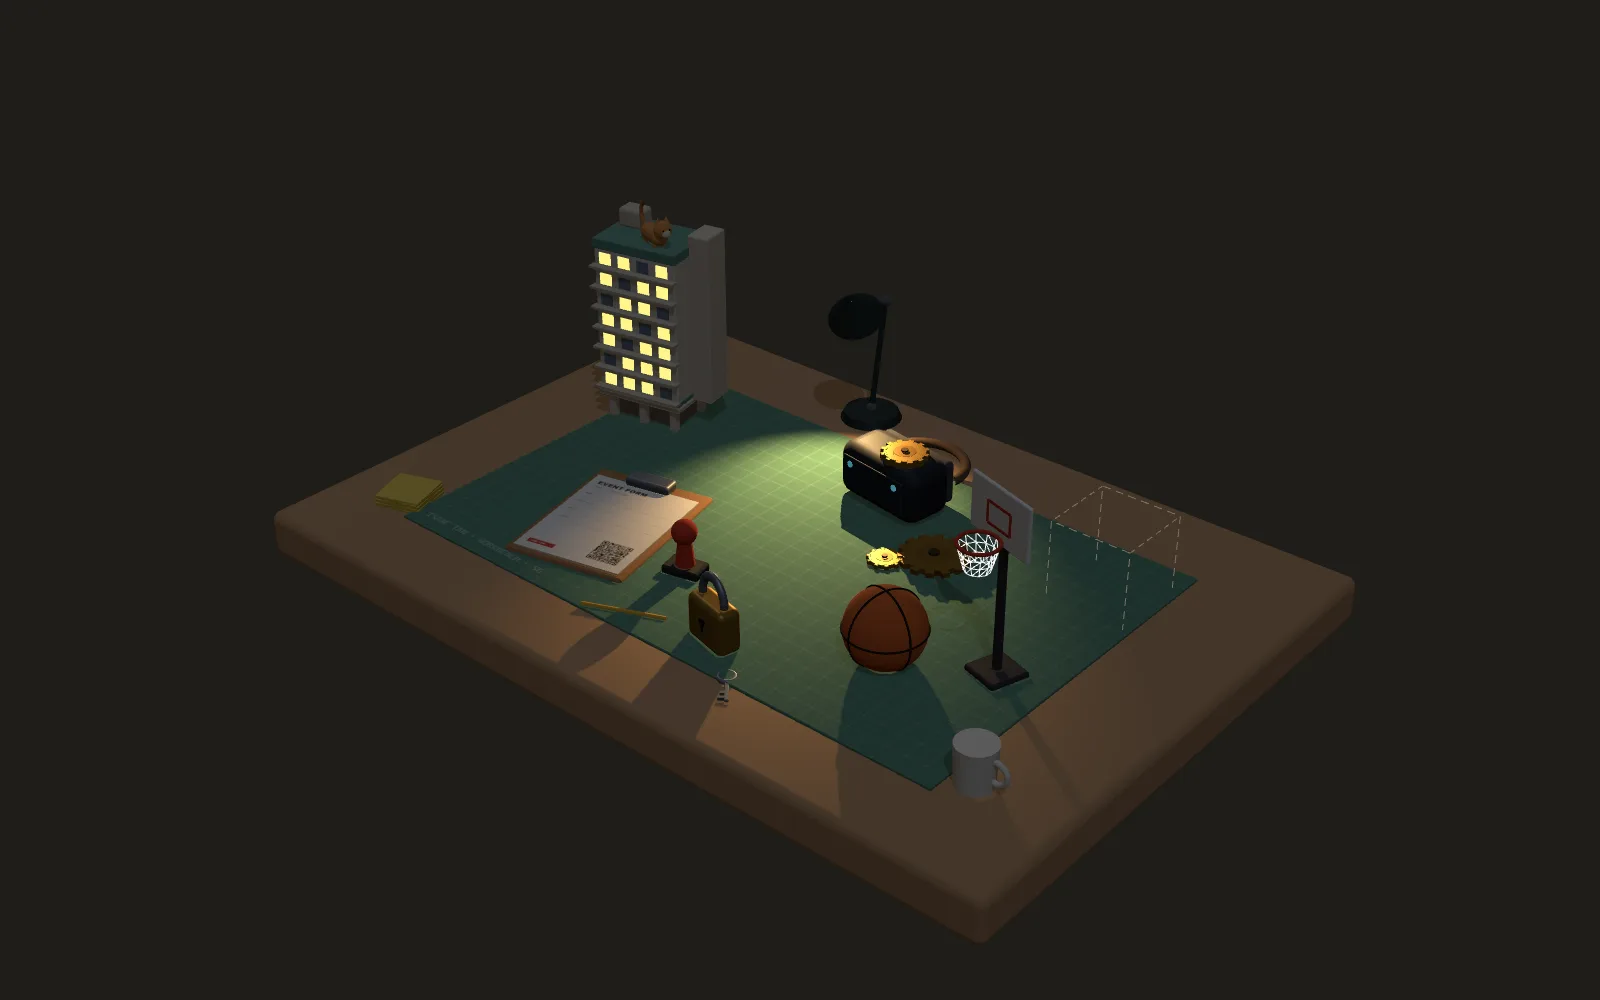
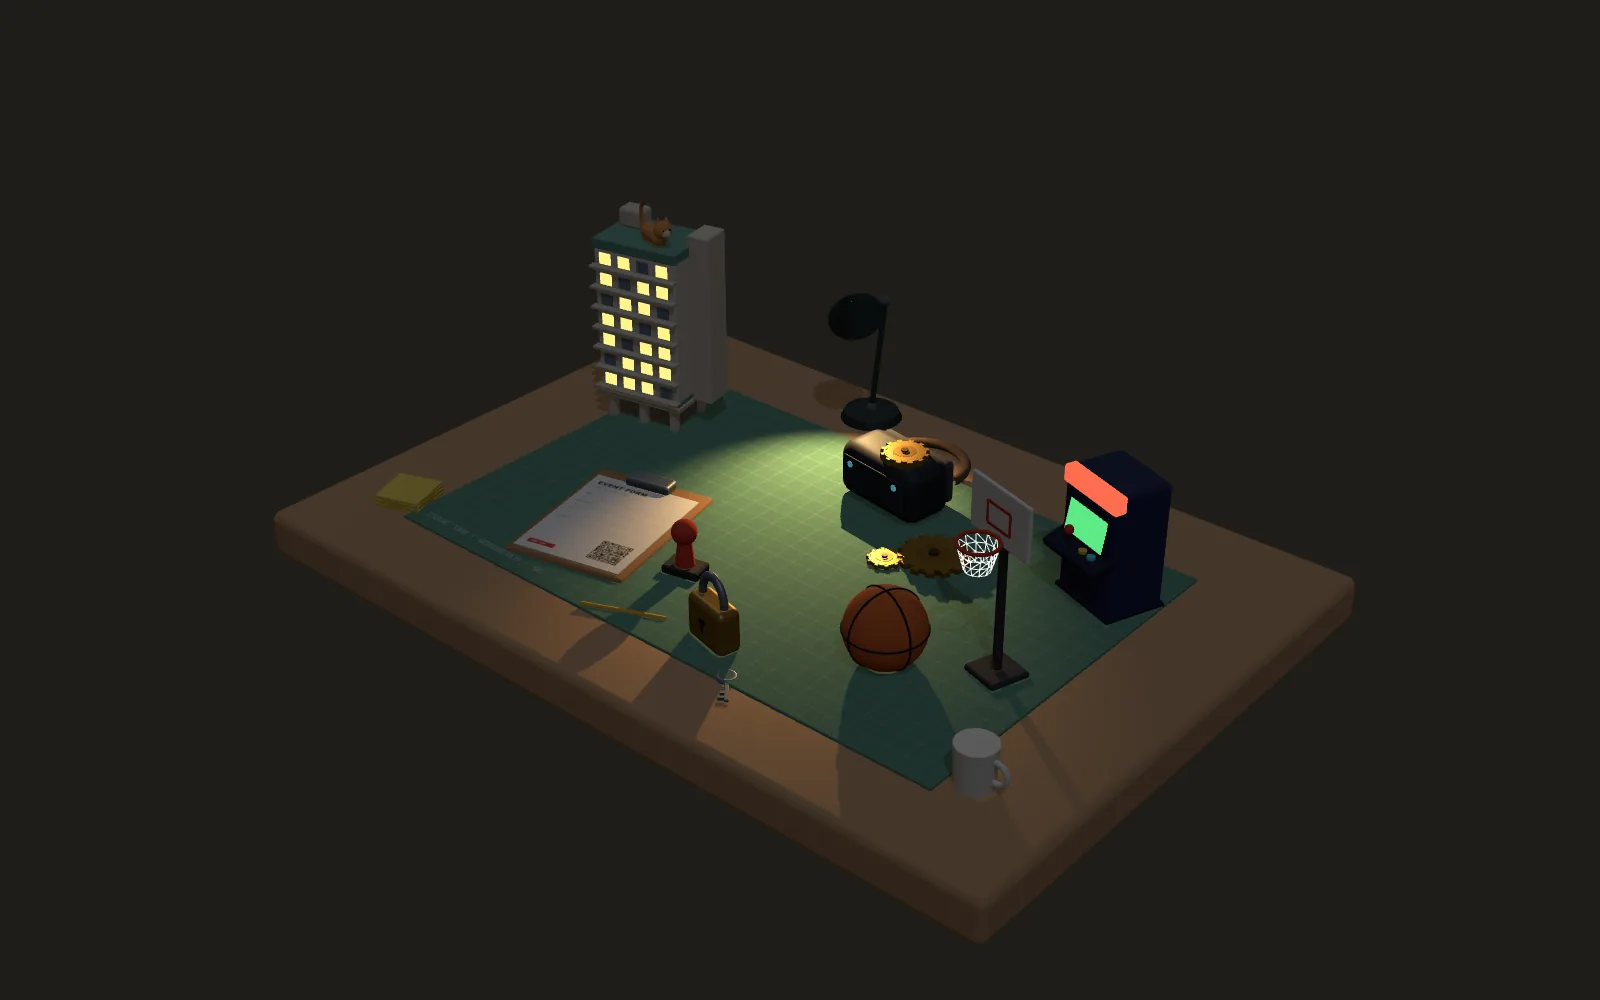
Add Mainframe Run as project 006
The arcade cabinet takes the queued slot on the bench, the case study
links to the game at /play/, and the posters and share images are
re-rendered with the cabinet in them.

Changed region(s): [[0.6562, 0.465, 0.75, 0.62]]

diff --git a/src/scripts/bench/objects/arcade.ts b/src/scripts/bench/objects/arcade.ts
@@ -1,0 +1,55 @@
+import * as THREE from 'three';
+import { material, palette, part, roundedBox } from '../materials';
+import type { BenchObject } from './types';
+import { easedFlag } from './ease';
+
+const BODY = '#2a2f55';
+const TRIM = '#1a1d36';
+const NEON = '#5ef08a';
+
+/** A small arcade cabinet for Mainframe Run, the revision game. */
+export function buildArcade(): BenchObject {
+  const group = new THREE.Group();
+
+  part(group, roundedBox(1.1, 1.9, 0.9, 0.08), BODY, [0, 0.95, 0]);
+  part(group, roundedBox(1.16, 0.1, 0.96, 0.03), TRIM, [0, 0.05, 0]);
+
+  // Marquee across the top, lit from behind.
+  const marquee = material('#e0533a', { emissive: '#e0533a', emissiveIntensity: 0.5 });
+  part(group, roundedBox(1.12, 0.26, 0.2, 0.04), marquee, [0, 1.78, 0.38]);
+
+  // Screen bezel and screen, tilted back like a real cabinet.
+  const bezel = part(group, roundedBox(0.92, 0.72, 0.08, 0.03), TRIM, [0, 1.32, 0.42]);
+  bezel.rotation.x = -0.18;
+  const screen = material('#0d0e16', { emissive: NEON, emissiveIntensity: 0.35 });
+  const display = part(group, new THREE.BoxGeometry(0.78, 0.58, 0.02), screen, [0, 1.32, 0.47]);
+  display.rotation.x = -0.18;
+
+  // Control deck with a joystick and two buttons.
+  const deck = part(group, roundedBox(1.12, 0.12, 0.42, 0.04), TRIM, [0, 0.88, 0.55]);
+  deck.rotation.x = 0.35;
+  part(group, new THREE.CylinderGeometry(0.025, 0.025, 0.2, 8), palette.ink, [-0.22, 1.0, 0.58]);
+  part(group, new THREE.SphereGeometry(0.07, 14, 10), palette.stamp, [-0.22, 1.11, 0.58]);
+  for (const [x, color] of [
+    [0.12, '#f4c542'],
+    [0.3, '#4fd8e8'],
+  ] as const) {
+    part(group, new THREE.CylinderGeometry(0.06, 0.06, 0.04, 14), color, [x, 0.97, 0.6]);
+  }
+
+  const awake = easedFlag();
+  let night = 0;
+  return {
+    group,
+    animate(t, active) {
+      // The screen flickers like an attract mode, and lights right up when pointed at.
+      const flicker = 0.08 * Math.sin(t * 9) + 0.05 * Math.sin(t * 23);
+      screen.emissiveIntensity = 0.35 + night * 0.6 + awake(active) * 1.2 + flicker;
+    },
+    evening(amount) {
+      night = amount;
+      screen.emissiveIntensity = 0.35 + amount * 0.6;
+      marquee.emissiveIntensity = 0.5 + amount * 1.2;
+    },
+  };
+}

diff --git a/e2e/site.spec.ts b/e2e/site.spec.ts
@@ -8,6 +8,7 @@ const pages = [
   'work/cogsworths-forge/',
   'work/hdb-cats/',
   'work/hardening-this-site/',
+  'work/mainframe-run/',
   'other/',
   'about/',
   'how-it-works/',
@@ -101,7 +102,6 @@ test('each ticket carries a QR code for its case study', async ({ page }) => {
   await page.goto('');
   const qr = page.locator('[data-ticket="cats"] svg.qr');
   await expect(qr).toHaveAttribute('aria-label', /work\/hdb-cats\/$/);
-  await expect(page.locator('[data-ticket="next"] svg.qr')).toHaveCount(0);
 });
 
 test.describe('without JavaScript', () => {
@@ -223,4 +223,17 @@ test.describe('saving battery and data', () => {
     await page.mouse.move(260, 240);
     await expect(bench).toHaveAttribute('data-asleep', 'false');
   });
+});
+
+test('project 006 opens from its stub and leads to the game', async ({ page }) => {
+  await page.goto('');
+  await expect(page.locator('.stub[data-id="next"]')).toHaveCount(0);
+  await page.locator('.stub[data-id="arcade"]').click();
+  const ticket = page.locator('[data-ticket="arcade"]');
+  await expect(ticket).toBeVisible();
+  await expect(ticket).toContainText('Mainframe Run');
+  await ticket.getByRole('link', { name: 'Open case study' }).click();
+  await expect(page).toHaveURL(/work\/mainframe-run\/$/);
+  await page.getByRole('link', { name: 'Play it live' }).click();
+  await expect(page).toHaveURL(/play\/$/);
 });

diff --git a/src/scripts/bench/index.ts b/src/scripts/bench/index.ts
@@ -7,13 +7,13 @@ import { buildClipboard } from './objects/clipboard';
 import { buildHoop } from './objects/hoop';
 import { buildHeadset } from './objects/headset';
 import { buildHdb } from './objects/hdb';
-import { buildSlot } from './objects/slot';
+import { buildArcade } from './objects/arcade';
 import { buildPadlock } from './objects/padlock';
 import { buildProps } from './objects/props';
 import { buildLamp } from './objects/lamp';
 import type { BenchObject } from './objects/types';
 
-export type BenchId = 'forms' | 'hoops' | 'vr' | 'cats' | 'lock' | 'next';
+export type BenchId = 'forms' | 'hoops' | 'vr' | 'cats' | 'lock' | 'arcade';
 type PickId = BenchId | 'lamp';
 
 export interface BenchOptions {
@@ -34,7 +34,7 @@ const placements: Record<PickId, { at: [number, number]; turn: number }> = {
   vr: { at: [0.35, -1.65], turn: -0.15 },
   cats: { at: [-4.15, -1.45], turn: 0.2 },
   lock: { at: [0.75, 2.55], turn: -0.25 },
-  next: { at: [4.0, -1.65], turn: 0 },
+  arcade: { at: [4.0, -1.65], turn: -0.35 },
   lamp: { at: [-1.6, -3.55], turn: 0.3 },
 };
 
@@ -71,7 +71,7 @@ export async function mountBench(host: HTMLElement, options: BenchOptions) {
     vr: buildHeadset(),
     cats: hdb,
     lock: buildPadlock(),
-    next: buildSlot(),
+    arcade: buildArcade(),
     lamp: buildLamp(!small),
   };
   const ids = Object.keys(objects) as PickId[];

diff --git a/src/content.config.ts b/src/content.config.ts
@@ -2,7 +2,7 @@ import { defineCollection } from 'astro:content';
 import { glob, file } from 'astro/loaders';
 import { z } from 'astro/zod';
 
-export const benchObjects = ['forms', 'hoops', 'vr', 'cats', 'lock'] as const;
+export const benchObjects = ['forms', 'hoops', 'vr', 'cats', 'lock', 'arcade'] as const;
 
 const projects = defineCollection({
   loader: glob({ pattern: '*.md', base: './src/content/projects' }),
@@ -18,7 +18,8 @@ const projects = defineCollection({
       coverAlt: z.string(),
       bench: z.enum(benchObjects),
       video: z.object({ src: z.string(), kind: z.enum(['file', 'youtube']) }).optional(),
-      live: z.url().optional(),
+      /** A full URL, or a path on this site such as "play/". */
+      live: z.string().optional(),
       gallery: z.array(z.object({ src: image(), alt: z.string(), caption: z.string() })).optional(),
     }),
 });

diff --git a/README.md b/README.md
@@ -2,9 +2,9 @@
 
 My portfolio site: [isaactzl.github.io/DigitalPortfolio](https://isaactzl.github.io/DigitalPortfolio/)
 
-![The workbench: a clipboard and stamp, a padlock, a basketball hoop, a VR headset with brass gears, a desk lamp, and an HDB block with a cat on the roof](public/og.png)
+![The workbench: a clipboard and stamp, a padlock, a basketball hoop, a VR headset with brass gears, a desk lamp, a small arcade cabinet, and an HDB block with a cat on the roof](public/og.png)
 
-The home page is a small workbench in 3D. Each object on it is something I built: the clipboard is the event-form tool from my internship, the hoop is Hardwood Hustle, the headset is Cogsworth's Forge, the HDB block is HDB Cats, and the padlock is the write-up of how I hardened this site. Click one, or pick it with the arrow keys, and the rubber stamp presses down and a work-order ticket slides out with the project. Switch the desk lamp on and the site goes into evening mode. The cat on the roof watches your cursor.
+The home page is a small workbench in 3D. Each object on it is something I built: the clipboard is the event-form tool from my internship, the hoop is Hardwood Hustle, the headset is Cogsworth's Forge, the HDB block is HDB Cats, the padlock is the write-up of how I hardened this site, and the arcade cabinet is Mainframe Run, a retro game I made to revise for my DISE role. Click one, or pick it with the arrow keys, and the rubber stamp presses down and a work-order ticket slides out with the project. Switch the desk lamp on and the site goes into evening mode. The cat on the roof watches your cursor.
 
 ## How it's built
 
@@ -29,7 +29,7 @@ flowchart LR
 
 ### The bench is code, not models
 
-There are no model files. Every object is built from Three.js primitives in its own file under [`src/scripts/bench/objects/`](src/scripts/bench/objects/), so the whole scene is about 150 KB of gzipped JavaScript and nothing else to download. The form on the clipboard, the cutting-mat grid and the slot's tag are drawn onto canvases at runtime. The QR codes are real: the one on the clipboard and the ones on each ticket open the matching case study.
+There are no model files. Every object is built from Three.js primitives in its own file under [`src/scripts/bench/objects/`](src/scripts/bench/objects/), so the whole scene is about 150 KB of gzipped JavaScript and nothing else to download. The form on the clipboard and the cutting-mat grid are drawn onto canvases at runtime. The QR codes are real: the one on the clipboard and the ones on each ticket open the matching case study.
 
 ### Decisions and trade-offs
 
@@ -39,6 +39,7 @@ There are no model files. Every object is built from Three.js primitives in its 
 - **Strict Content Security Policy.** Scripts, styles and fonts all come from this site, and there is no `unsafe-inline`. The page's CSS and the few lines that set the lamp before first paint are inlined so first paint never waits on another request; Astro writes each one's SHA-256 hash into the policy at build time, so any other inline code is blocked. The only third party allowed is the YouTube player, which loads from `youtube-nocookie.com` only after you press Play.
 - **The lamp is the dark mode.** It follows your system setting on first visit, remembers your choice, and is set by a tiny script before first paint so the page never flashes the wrong colours.
 - **Accessible by default.** The bench itself takes keyboard focus (arrow keys pick, Enter opens), tickets close with Escape and return focus, focus rings are visible, reduced motion is respected, and colour contrast is checked in both day and evening modes.
+- **The game is plain TypeScript on a canvas.** Mainframe Run ([`src/game/`](src/game/)) has no engine. Its rules (movement, bots, the clock, answer checking, saved stats) are pure functions with unit tests, and only the drawing and input touch the browser. The questions live in one JSON file that the content schema checks at build time.
 - **Sound is opt-in.** A stamp thunk and a light-switch click, synthesised with the Web Audio API so there are no audio files. Off until you switch it on, and remembered.
 
 ## Numbers
@@ -81,8 +82,10 @@ src/
   content/projects/   one Markdown file per case study
   content/other.json  smaller projects
   components/         tickets, stamp, QR code, video, the duplicate-booking demo and diagram
-  pages/              home, case studies, other work, about, how it works, 404
+  pages/              home, case studies, other work, about, how it works, the game, 404
   scripts/bench/      the 3D scene: stage, picking, stamp press, one file per object
+  game/               Mainframe Run: rules, sprites, input, the game loop
+  content/questions.json  the game's question bank
   scripts/            home page behaviour, the lamp, sound, the demo logic
   data/               site details and the lamp script (shared with the CSP config)
 e2e/                  Playwright tests

diff --git a/src/content/projects/mainframe-run.md b/src/content/projects/mainframe-run.md
@@ -1,0 +1,46 @@
+---
+no: '006'
+title: Mainframe Run
+status: In use
+kind: Personal project · Study tool
+stack: [TypeScript, Canvas, Vitest, Playwright]
+summary: A retro training-range game I built to revise for my DISE role. Every terminal is locked behind a Linux, networking, web, Python or security question.
+cover: ../../assets/projects/mainframe-run.png
+coverAlt: Mainframe Run in pixel art, with the blue hacker in a maze of server walls, three red firewall bots, five terminals, a striped door and the mainframe in the corner.
+bench: arcade
+live: play/
+gallery:
+  - src: ../../assets/gallery/mainframe-run/question.png
+    alt: A Linux question open over the game, asking what -r means in rm -r logs/, with four answers to pick from.
+    caption: Every terminal is a question. Wrong answers lock it for a few seconds.
+  - src: ../../assets/gallery/mainframe-run/report.png
+    alt: 'The end screen, showing a score, a revision report with a bar per topic, and "Revise next: Python tracing".'
+    caption: The revision report, here with example numbers. It points at your weakest topic.
+---
+
+## Why
+
+I'm getting ready for a junior DISE role, so I've been going through Linux commands, networking, HTTP and APIs, reading Python, and the basics of keeping data safe. Flashcards got boring fast. I wanted something I'd actually open when I'm bored, so I made revision into a game.
+
+## How it plays
+
+You're on an authorised training range, not hacking anything real. You have four minutes to crack the terminals around the floor, get through the door, and break into the mainframe.
+
+- Each terminal asks a question from one topic. Right answers add time; wrong ones cost time and lock that terminal for a few seconds.
+- Firewall bots patrol the corridors. Touch one and you lose time and get knocked back.
+- The mainframe is two questions in a row, so you can't luck your way in.
+- Some questions are multiple choice. Others make you type the answer, like a command or a port number, because recognising an answer is easier than remembering it.
+
+At the end you get a revision report across all your runs, with a bar per topic and the one to revise next. It's saved in your browser, so it builds up the more you play.
+
+## How it's built
+
+No game engine. The floor is a grid of characters in code, the sprites are drawn pixel by pixel on a canvas, and the whole game is a few kilobytes of TypeScript that only loads on the game page.
+
+I kept the game rules separate from the drawing. Movement, the bots, the clock and the answer checking are plain functions with no browser in them, so they're covered by unit tests: typed answers are trimmed and compared without caring about case or quotes, a topic never repeats a question until you've seen them all, and a broken save just starts fresh instead of crashing the game.
+
+The browser tests then play it for real: walk to the first terminal, answer, and check it cracks, plus run the clock out and check the report shows up. They also check it on a phone, where you get an on-screen pad.
+
+## The questions
+
+The questions are mine, written from what I've been studying. They're not from any real test. They live in one JSON file that's checked when the site builds, so a question with a missing answer can't ship.
